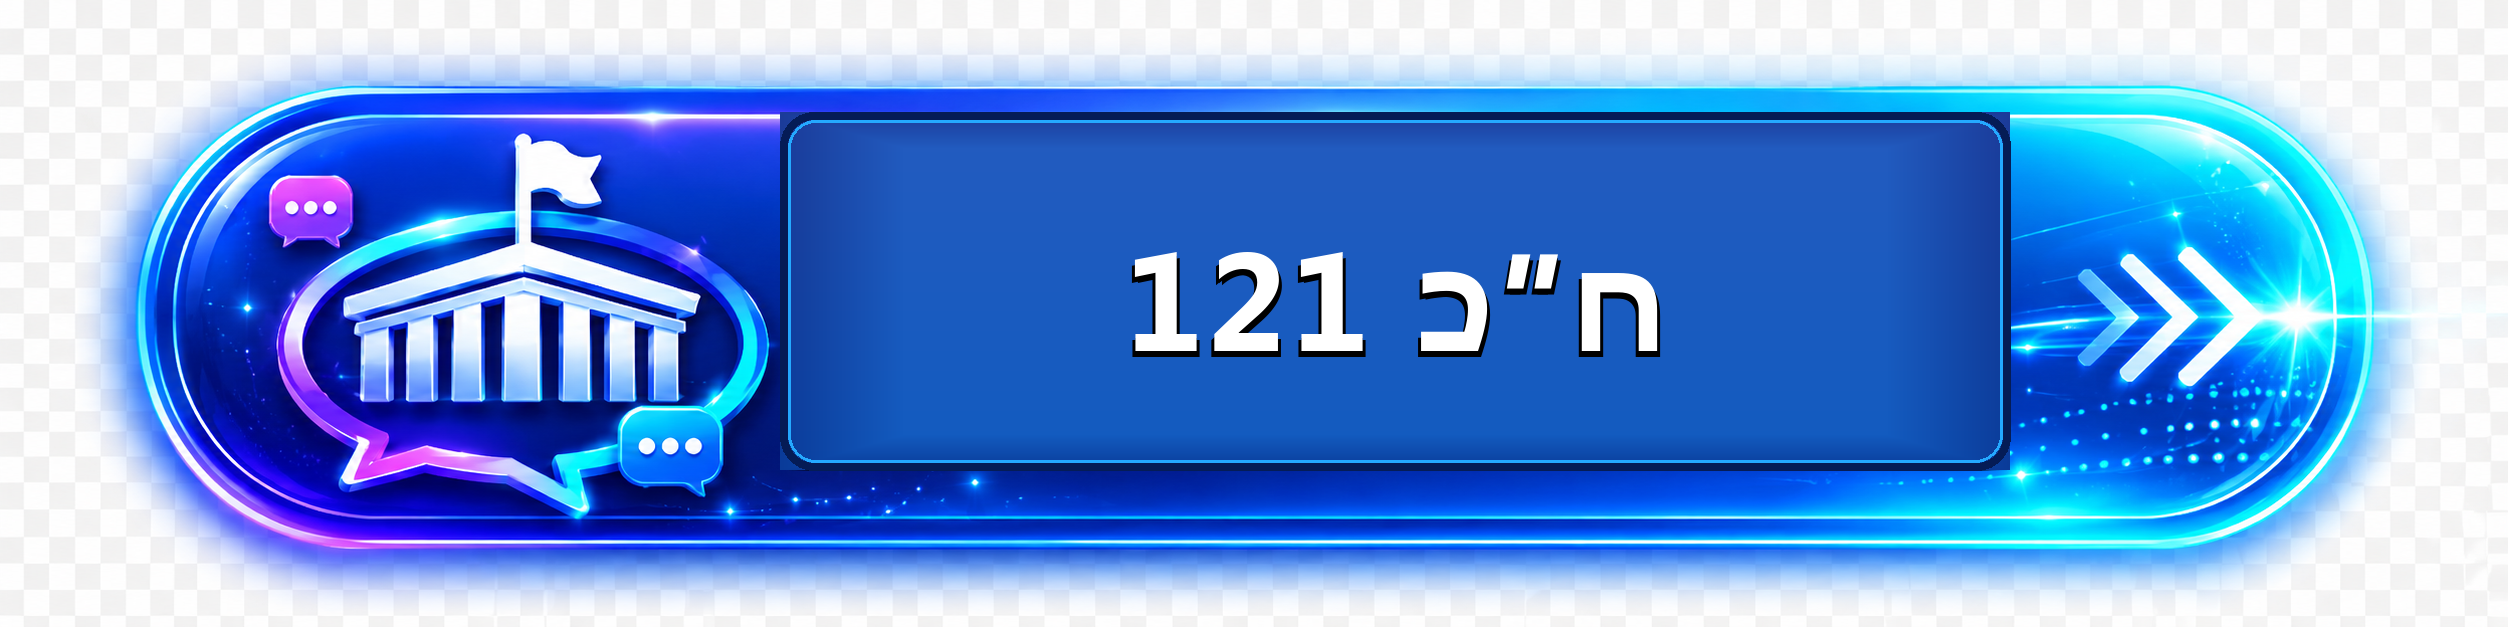
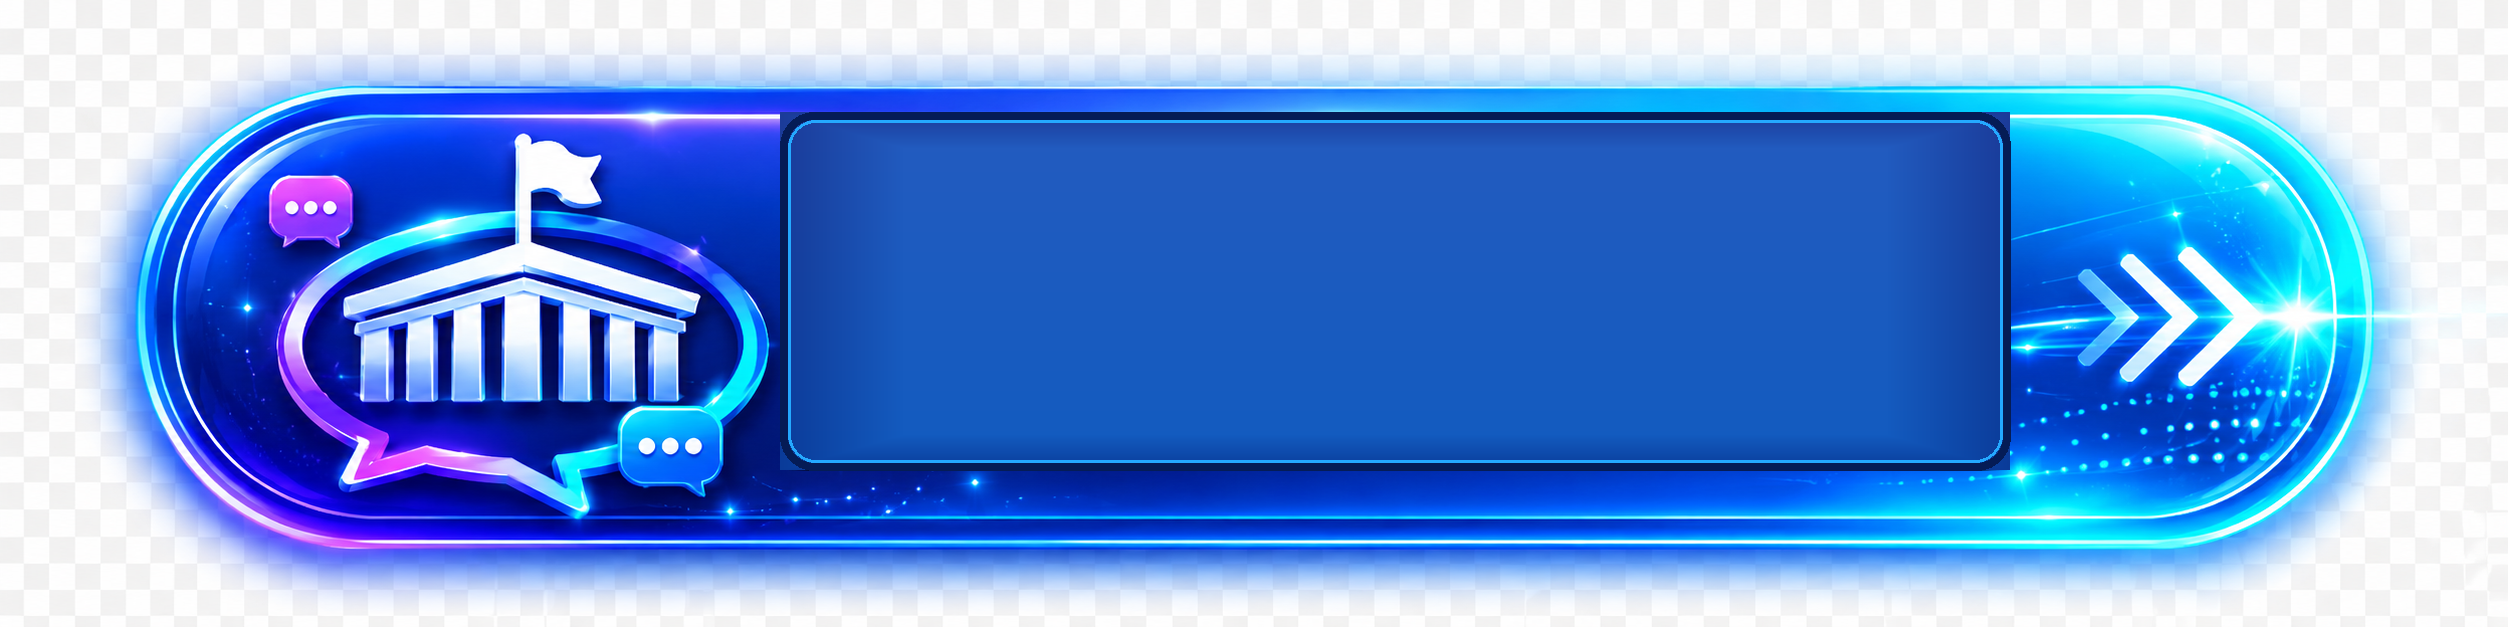
Render MK121 label as live RTL text

Changed region(s): [[0.4354, 0.3939, 0.6842, 0.5758]]

diff --git a/client/src/pages/Home.tsx b/client/src/pages/Home.tsx
@@ -497,12 +497,18 @@ ${candidateSenderEmail.trim()}`
             </div>
 
             <div className="grid gap-4 text-right md:grid-cols-2">
-              <button type="button" onClick={goToMK121Top} className="rounded-lg bg-transparent p-0 text-center transition hover:scale-[1.01] focus-visible:outline-none focus-visible:ring-2 focus-visible:ring-[#2454d6] focus-visible:ring-offset-4">
+              <button type="button" onClick={goToMK121Top} className="relative rounded-lg bg-transparent p-0 text-center transition hover:scale-[1.01] focus-visible:outline-none focus-visible:ring-2 focus-visible:ring-[#2454d6] focus-visible:ring-offset-4">
                 <img
                   src="/assets/mk121-card.png"
                   alt="ח&quot;כ 121"
                   className="mx-auto w-full max-w-md object-contain"
                 />
+                <span
+                  dir="rtl"
+                  className="pointer-events-none absolute left-[36%] right-[13%] top-1/2 -translate-y-1/2 text-center text-[clamp(1.75rem,4vw,3.4rem)] font-black leading-none text-white drop-shadow-[3px_5px_0_rgba(0,0,0,0.55)]"
+                >
+                  ח״כ 121
+                </span>
               </button>
               <button type="button" onClick={goToGovernanceTop} className="rounded-lg bg-transparent p-0 text-center transition hover:scale-[1.01] focus-visible:outline-none focus-visible:ring-2 focus-visible:ring-[#0f9f8f] focus-visible:ring-offset-4">
                 <img